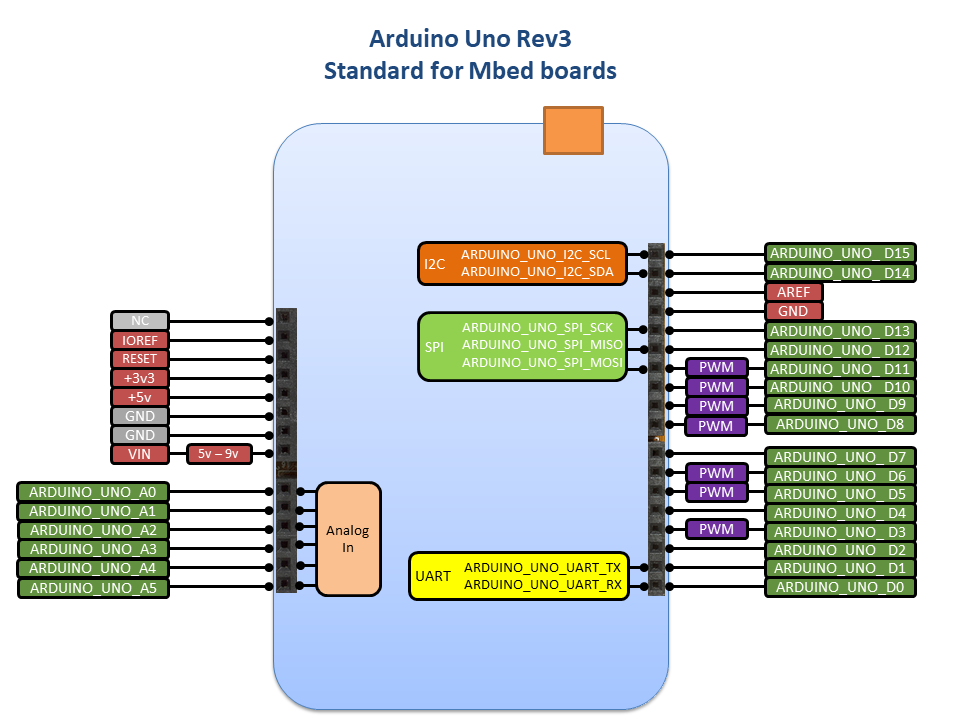
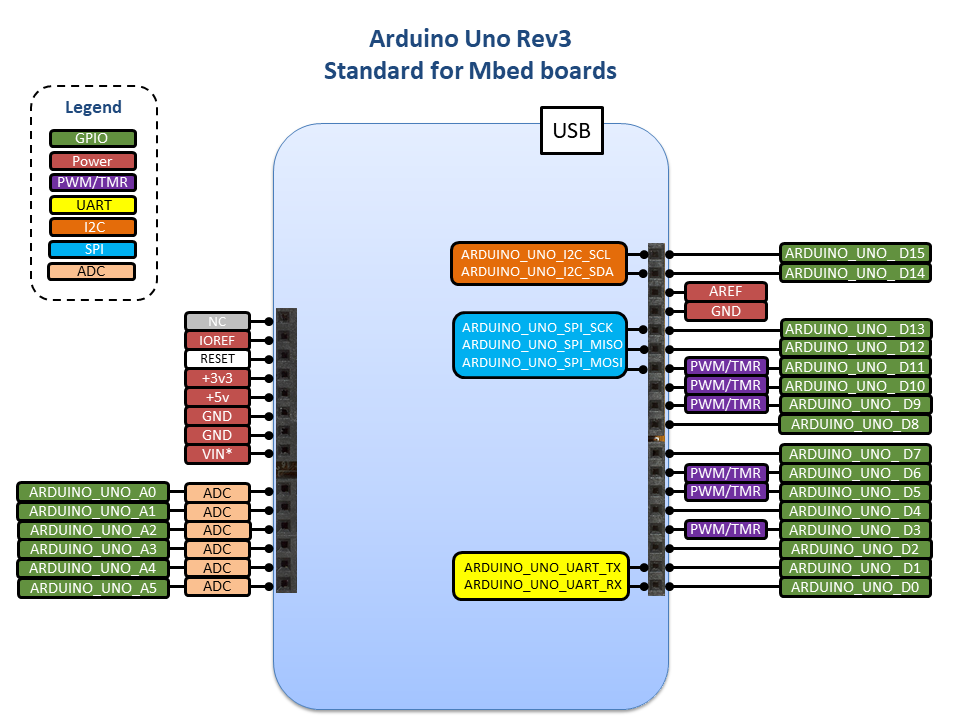
Fix arduino dsn doc and image

diff --git a/docs/design-documents/hal/0005-pin-names-Arduino-Uno-standard.md b/docs/design-documents/hal/0005-pin-names-Arduino-Uno-standard.md
@@ -56,7 +56,7 @@ The following diagrams shows the Arduino Uno Rev3 standard for Mbed boards:
 
 **Digital and Analog pin definition**
 
-The Arduino Uno (Rev3) form factor for Mbed boards should define D0-D15 & A0-A5 pins as part of the default standard. These pins should be defined in PinNames.h file within a PinName enum. The prefix `ARDUINO_UNO_` distinguishes these pins from pins defined for other custom or common connectors that may have similar pin names. 
+The Arduino Uno (Rev3) form factor for Mbed boards must support and define both D0-D15 pins for digital GPIO and A0-A5 pins for analog inout as part of the default standard. These pins should be defined in PinNames.h file within a PinName enum. The prefix `ARDUINO_UNO_` distinguishes these pins from pins defined for other custom or common connectors that may have similar pin names. 
 
     // Arduino Uno (Rev3) connector pin connection naming  
     // Px_xx relates to the processor pin connected to the Arduino Uno (Rev3) connector pin
@@ -85,7 +85,6 @@ The Arduino Uno (Rev3) form factor for Mbed boards should define D0-D15 & A0-A5 
     ARDUINO_UNO_A4 = Px_xx,
     ARDUINO_UNO_A5 = Px_xx,
 
-
 If the development board has the Arduino Uno connector in hardware, but does not comply with the Arduino Uno standard, whether it be with alternate functionality pins or no connected pins, the board should not be defined as Arduino Uno compliant and `ARDUINO_UNO` should not be added as a supported form factor in targets.json. Note this may result in a warning being generated at compile time to inform the user.
 
 The pins with alternate functions have to be referenced using MCU pin names (Px_xx) or pin name aliases in application code. 
@@ -111,6 +110,17 @@ All I2C, SPI and UART pin name alias definitions for the Arduino Uno (Rev3) conn
 
     #endif // TARGET_FF_ARDUINO_UNO
 
+**Other pin functions**
+
+Some Dx pinnames may support the usage of PWM or Timers functions. Although this is recomended, it's not a mandatory as requirement to be compliant with the Arduino Uno standard for Mbed boards.
+
+Note this might be one of the main differencess accross Mbed boards and therefore the application should not assume the same behaviour for PWM and Timers for them.
+
+The RESET signal should be defined in the Arduino Uno connector to let the user or an external component to put the MCU in reset state.
+
+The VIN signal isn't strictly defined in the Arduino standard in some cases may work as a bi-directional power supply. Tipically it could accept between 5 to 12 volts, but it's not a requirement.
+
+
 **Using Arduino Uno pins from an application**
 
 > Pending to add details
@@ -132,7 +142,7 @@ There should be both compile and run time checks to confirm whether a board has 
 - I2C compatibility on ARDUINO_UNO_D14/D15
 - SPI compatibility on ARDUINO_UNO_D10/D11/D12/D13
 - UART compatibility on ARDUINO_UNO_D0/D1
-- PWM compatibility on ARDUINO_UNO_D3/D4/D5/D6/D8/D9/D10
+- PWM compatibility on ARDUINO_UNO_D3/D5/D6/D9/D10/D11
 - Analog compatibility on ARDUINO_UNO_A0/A1/A2/A3/A4/A5
 
 This can be achieved by using Greentea, for example:
